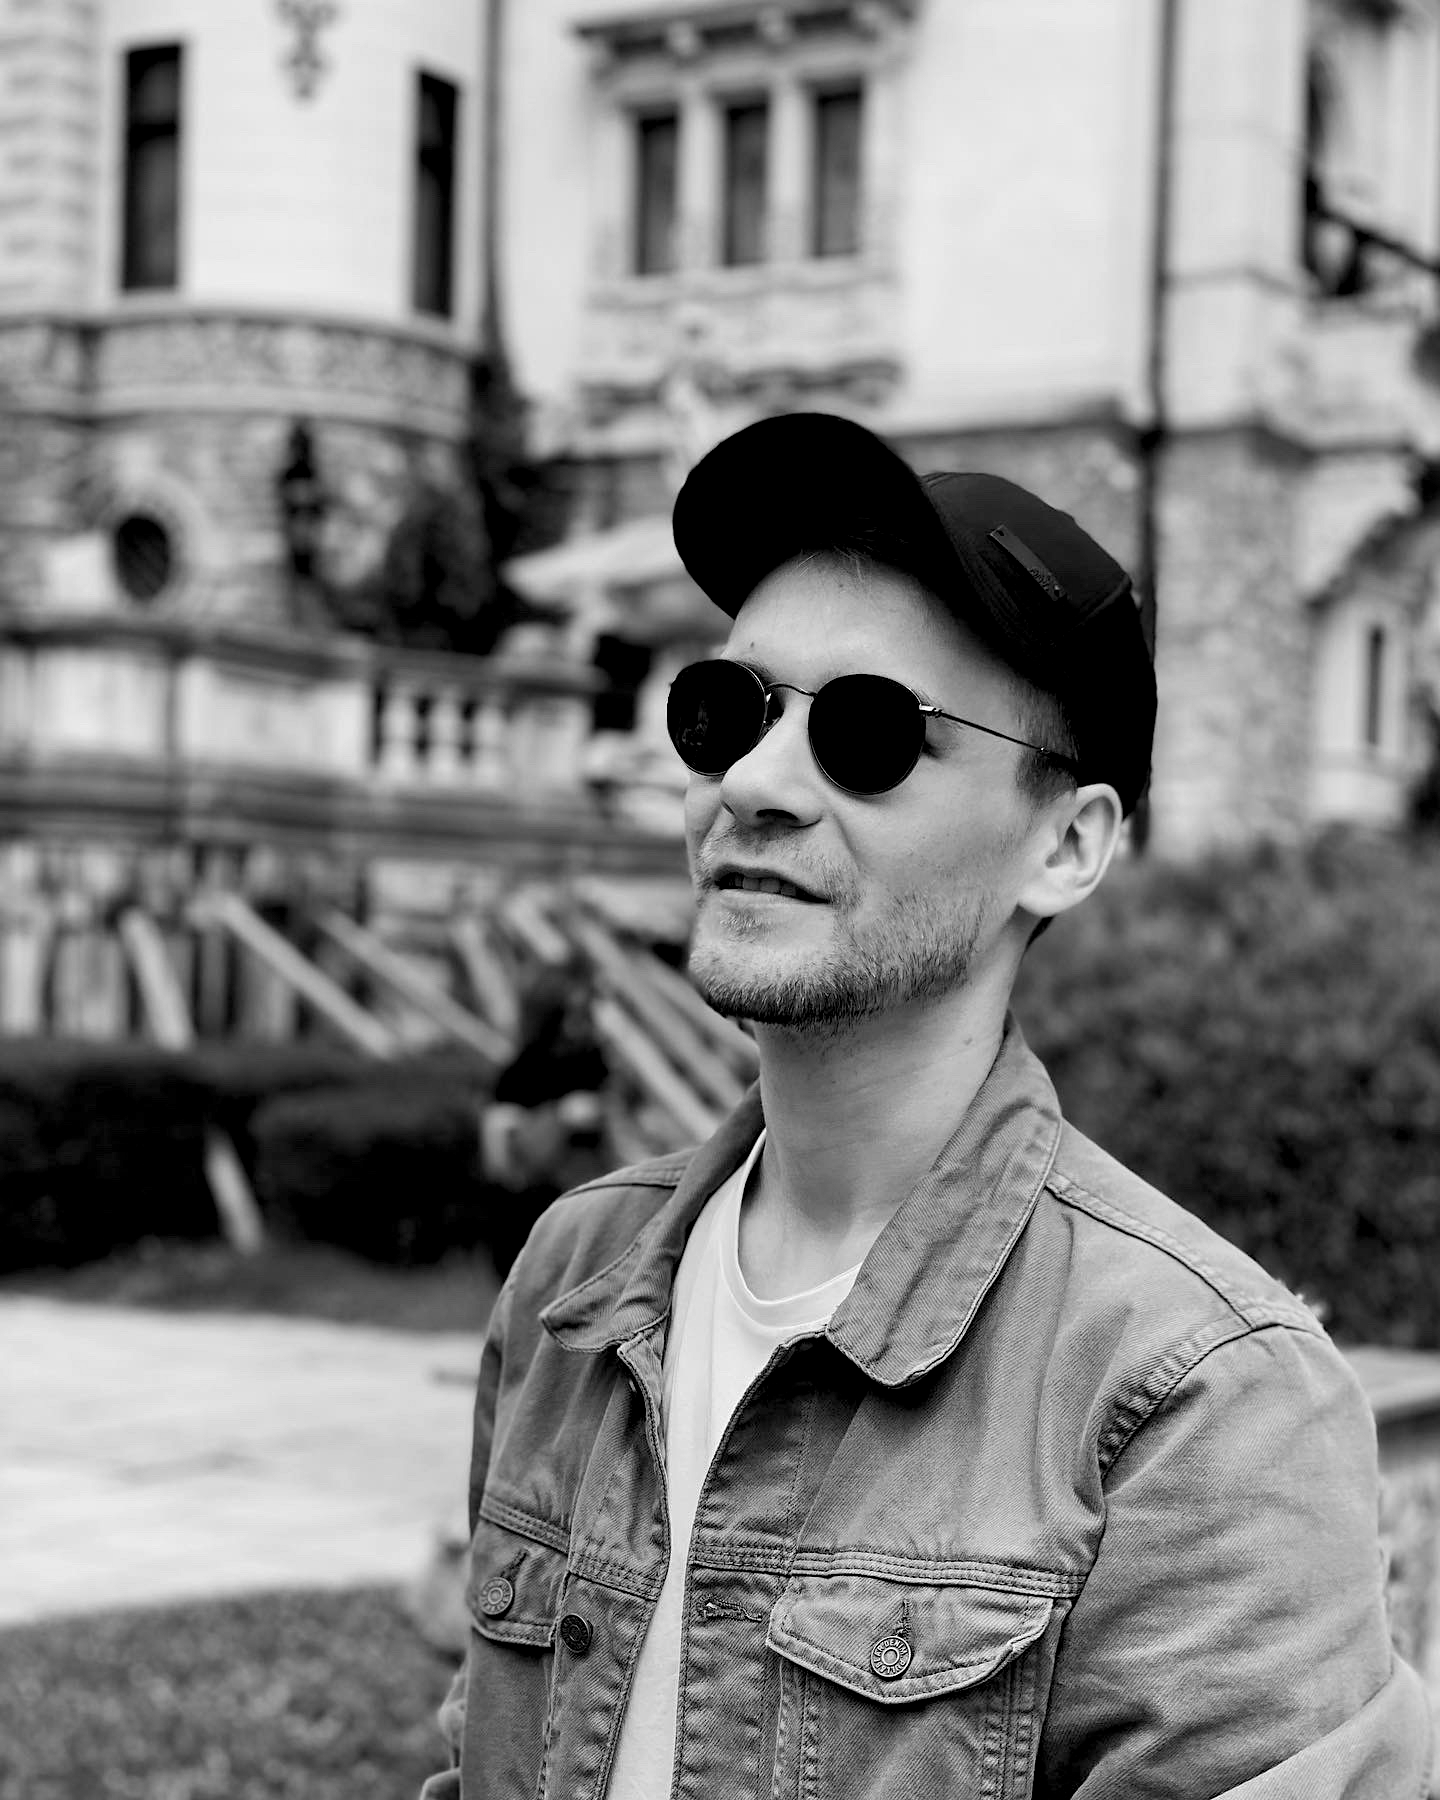
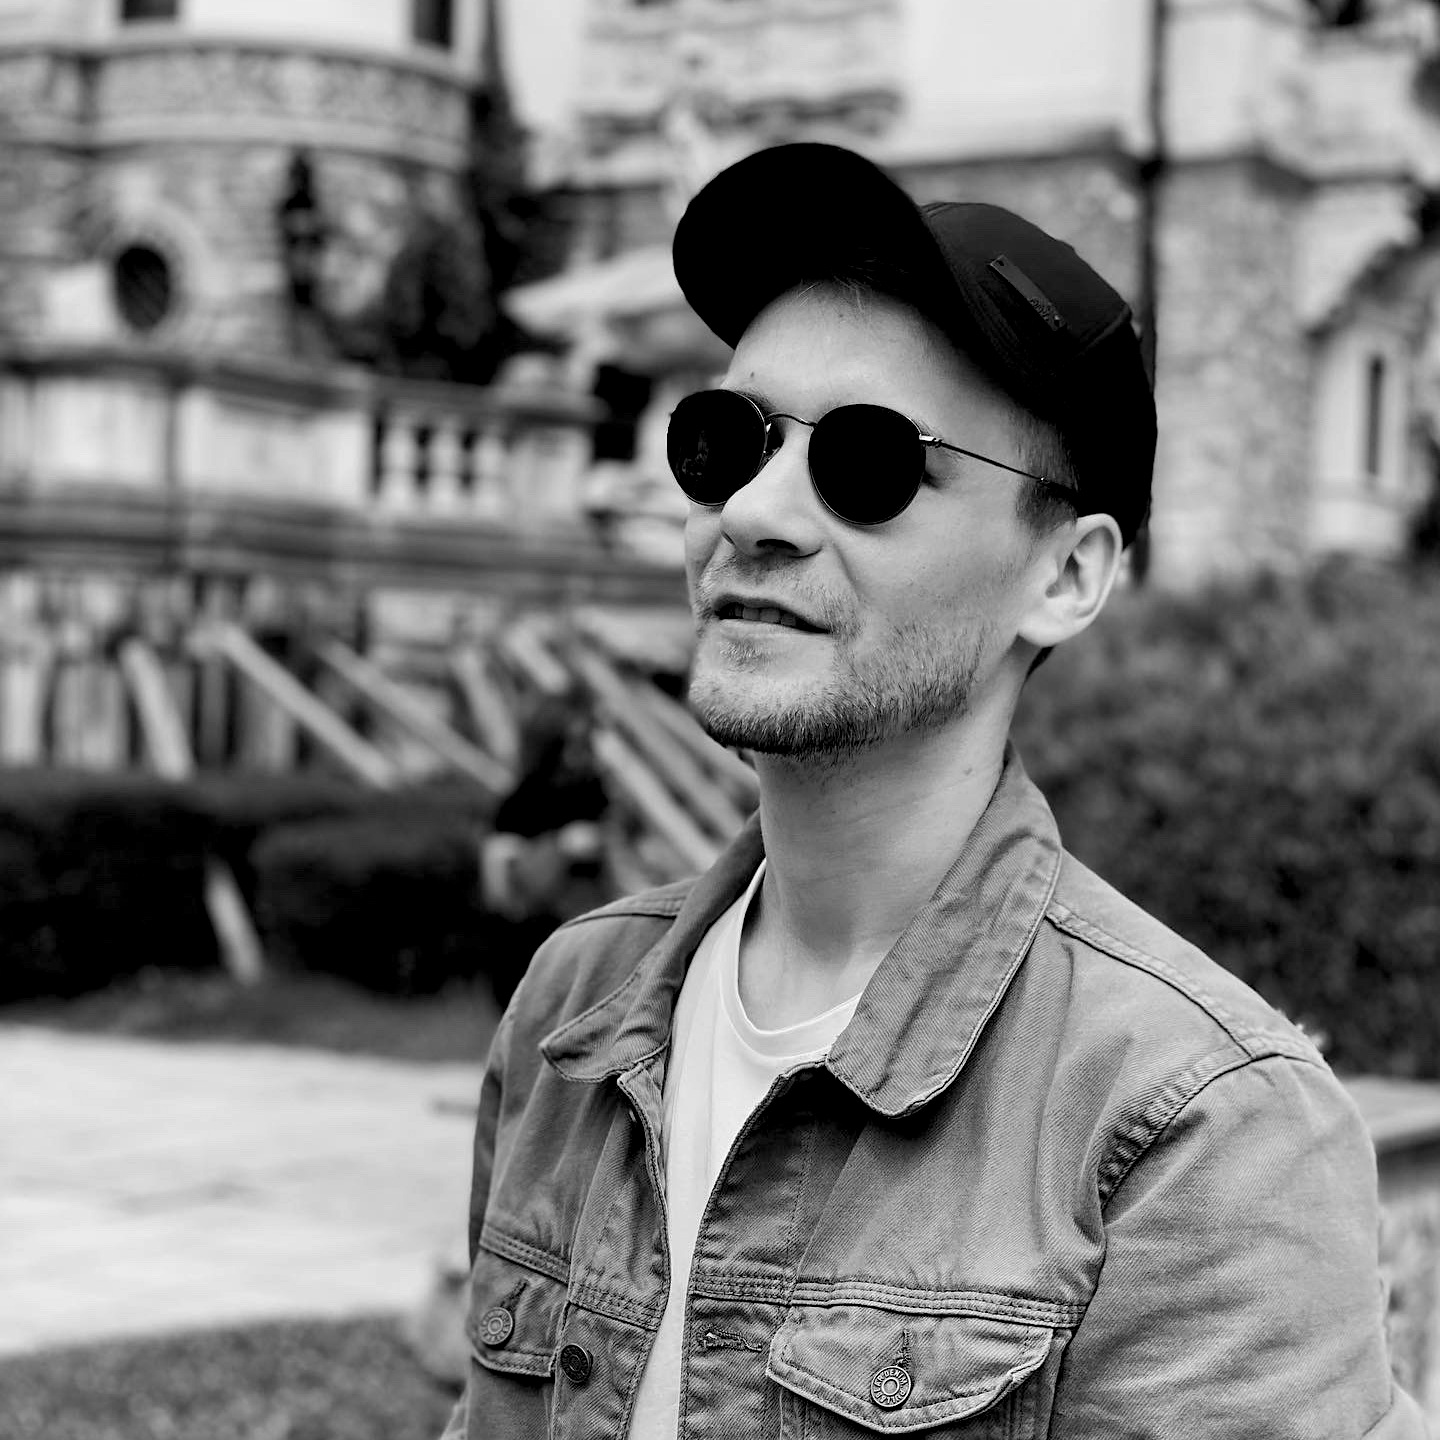
aggiornato immagine Home

diff --git a/src/styles/global.css b/src/styles/global.css
@@ -237,15 +237,19 @@ body {
   float: right;
   width: 100%;
   height: 100%;
+  min-height: 300px;
 }
 
 .principal-image {
-  width: 100%;
-  height: 100%;
+  width: 80%;
+  height: 80%;
   position:relative;
   align-items: center;
   justify-content: center;
   float: left;
+  border-radius: 50%;
+  margin-top: 2rem;
+  margin-bottom: 2rem;
 }
 
 .blog-section {
